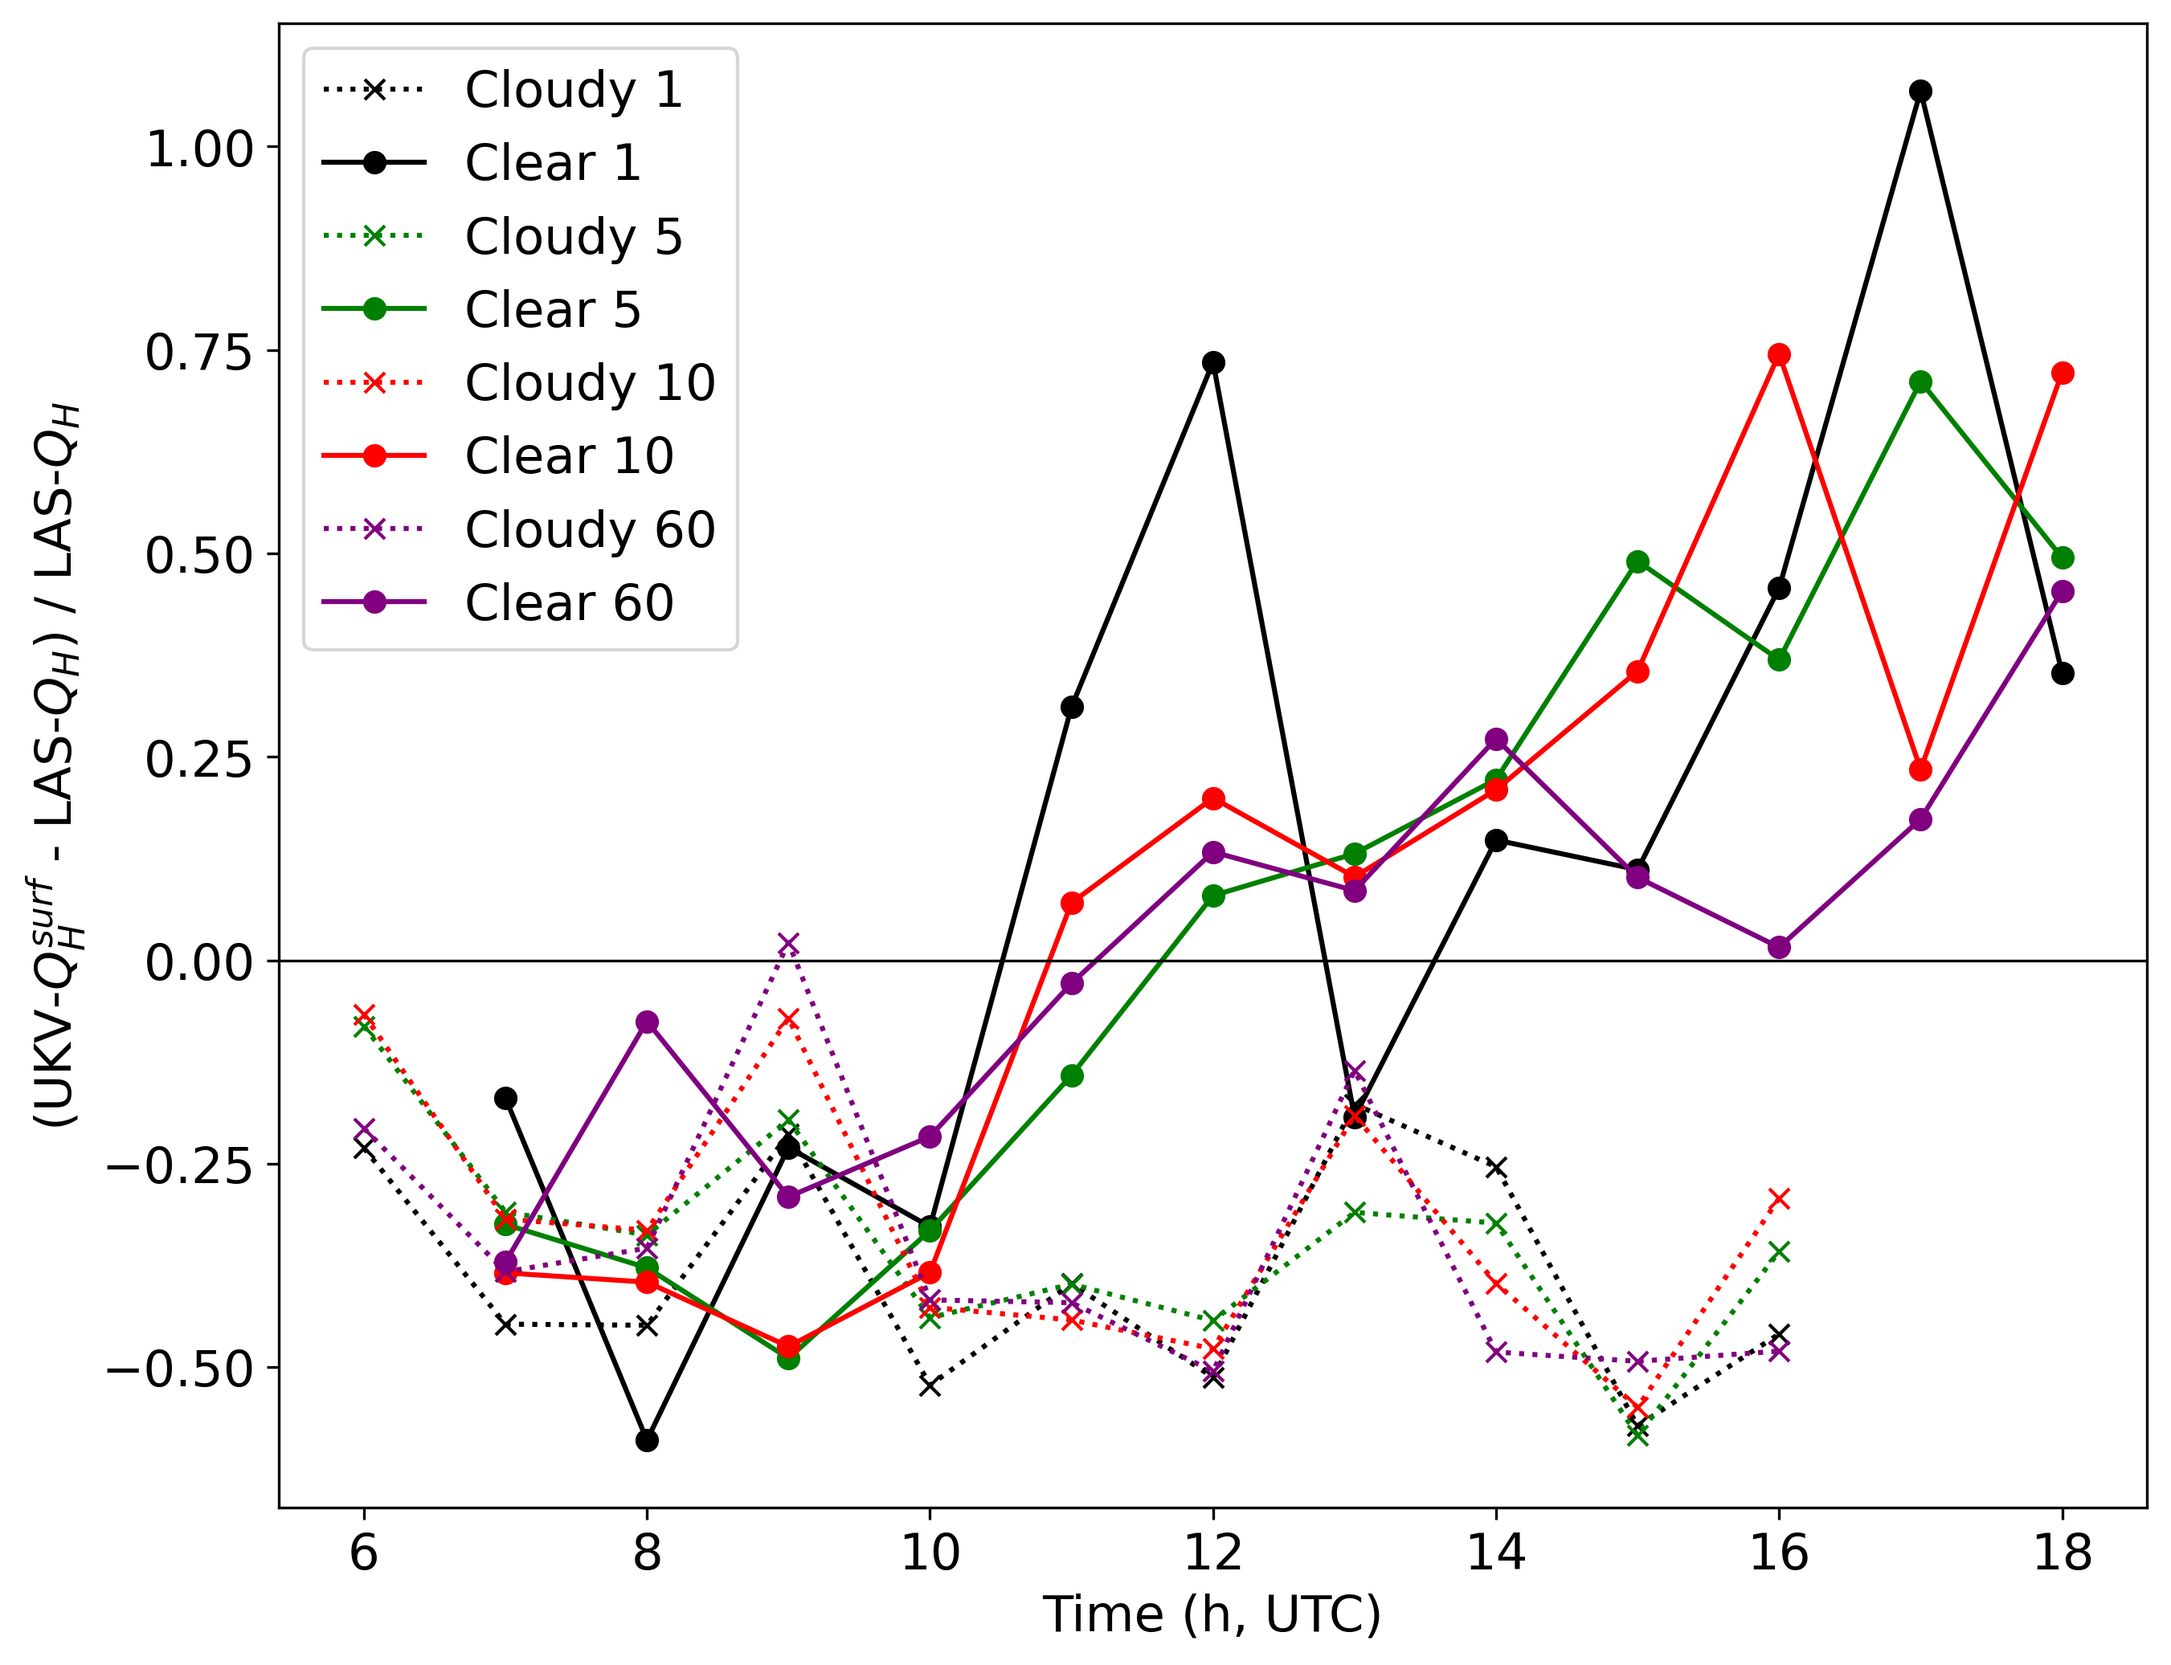
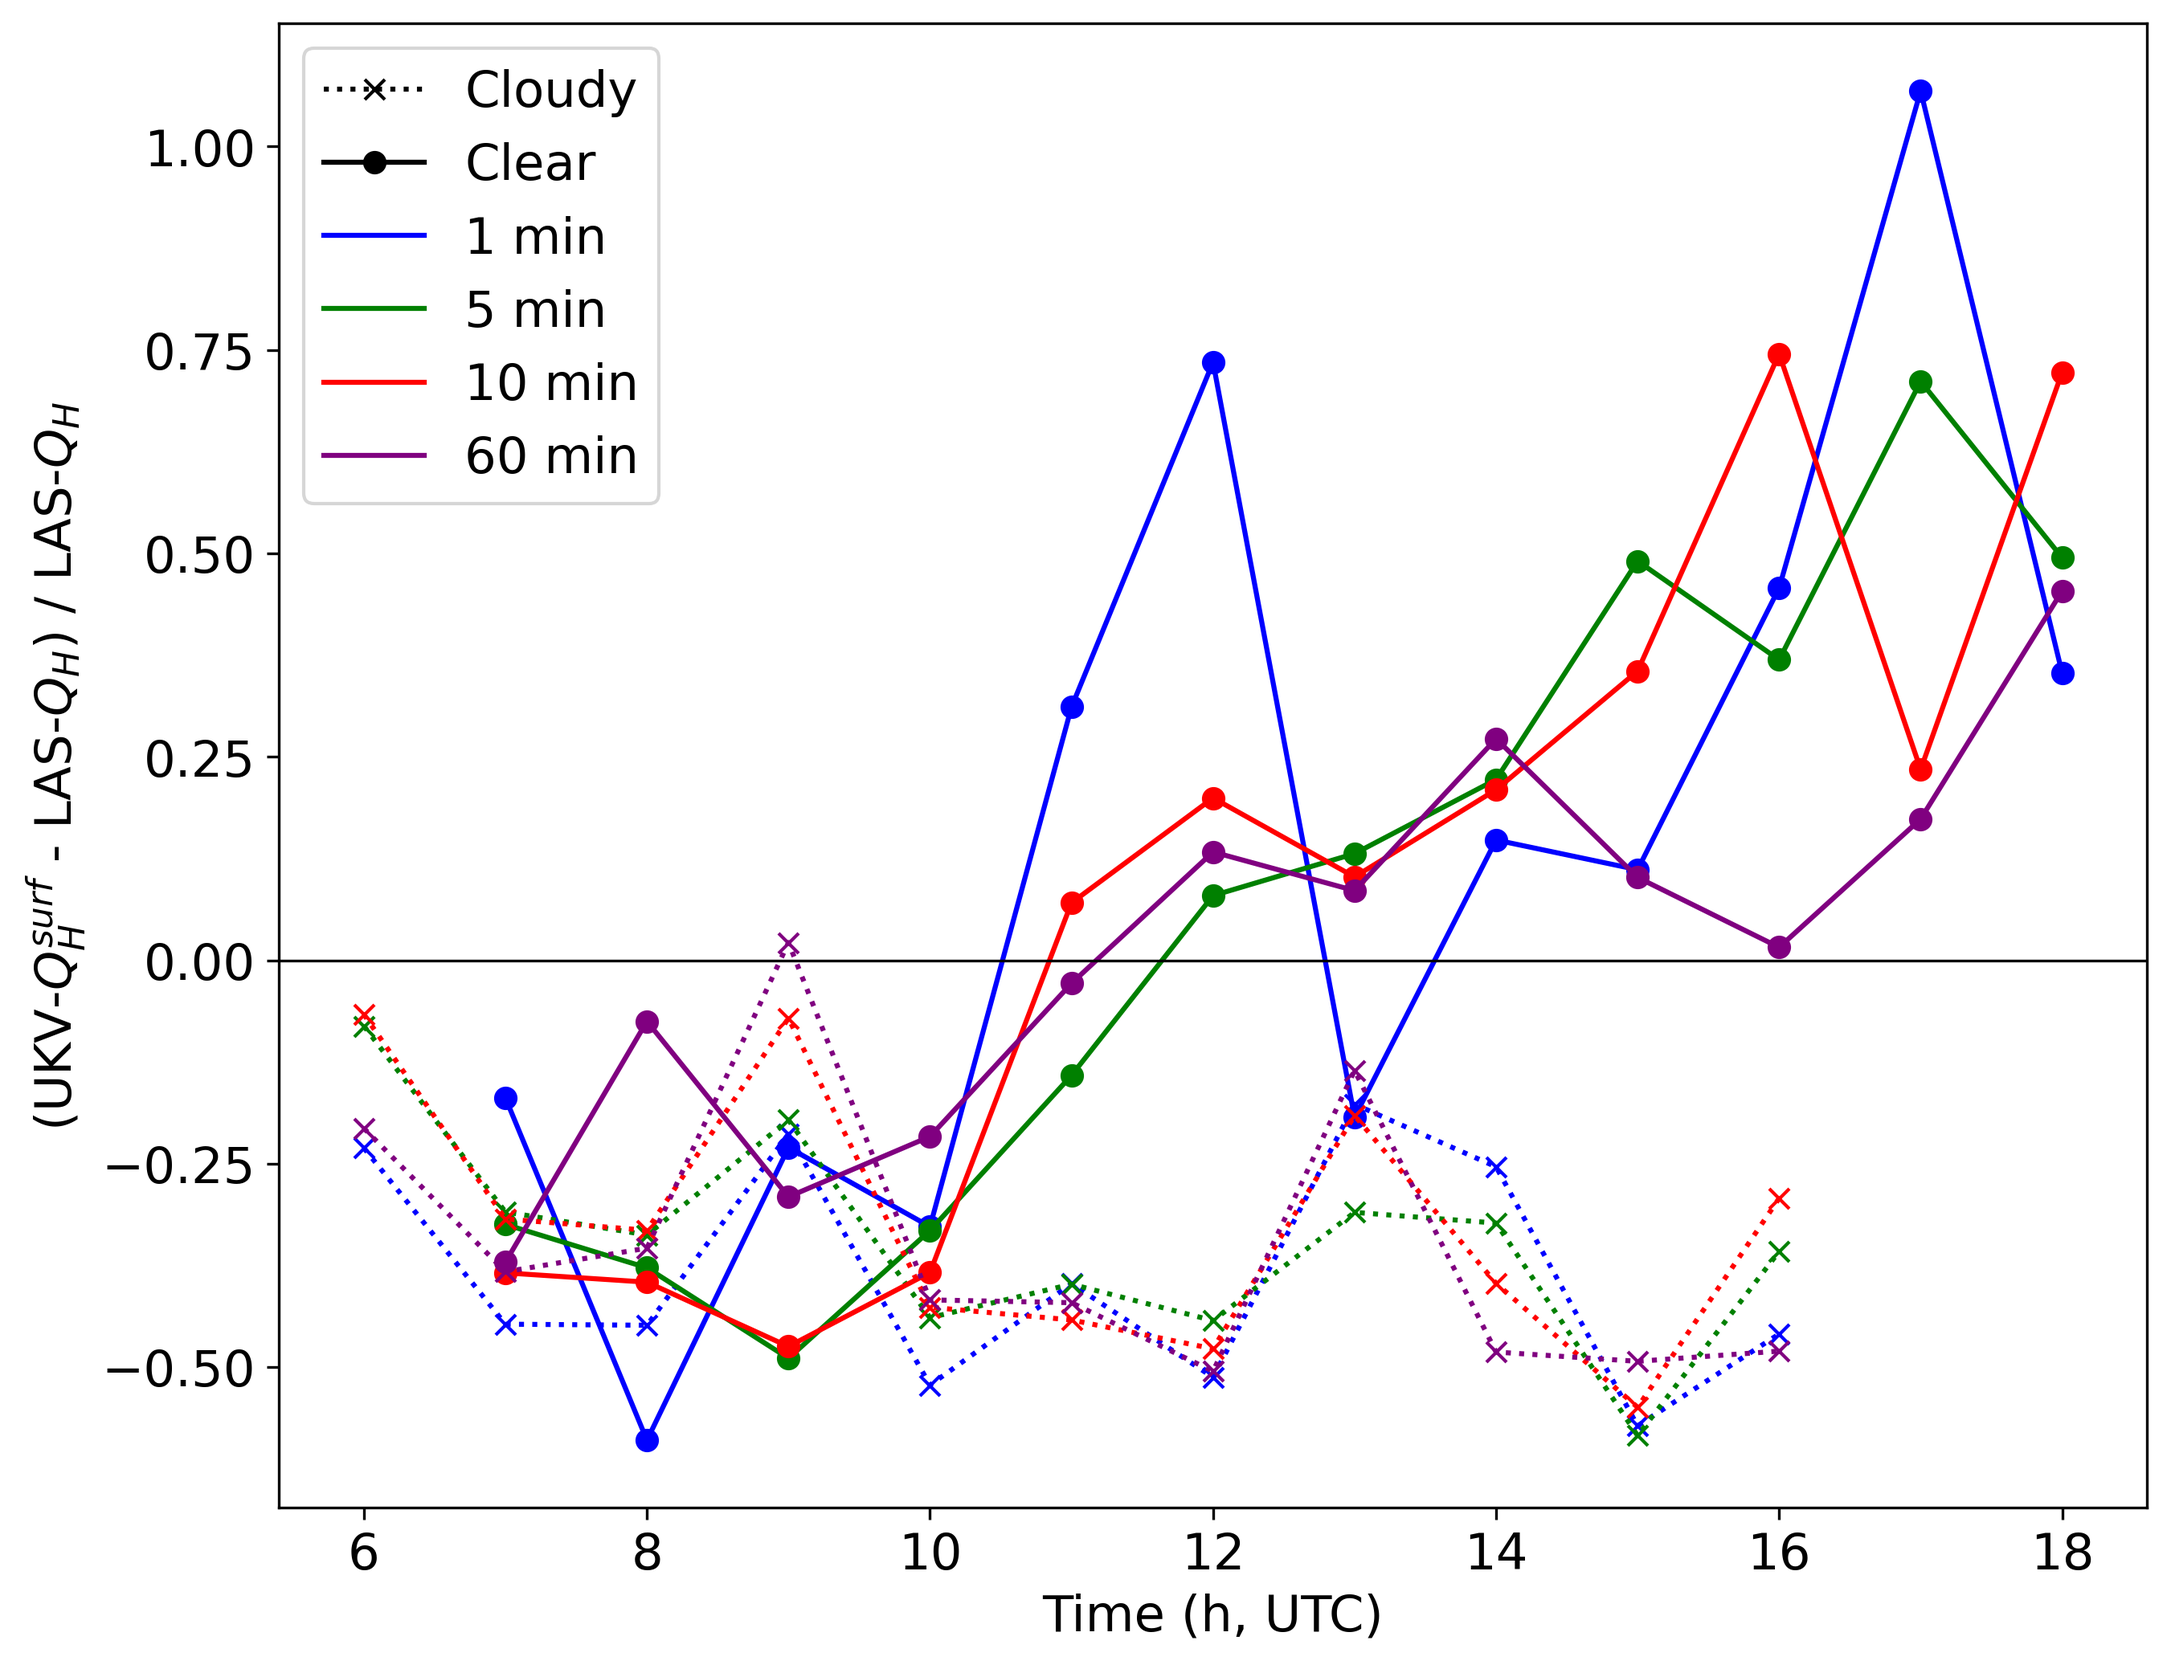
manually create legend

diff --git a/scint_plots/model_performance/model_performance_funs.py b/scint_plots/model_performance/model_performance_funs.py
@@ -2,6 +2,7 @@ import matplotlib.pyplot as plt
 import numpy as np
 import pandas as pd
 import matplotlib as mpl
+from matplotlib.lines import Line2D
 
 mpl.rcParams.update({'font.size': 15})
 
@@ -47,25 +48,20 @@ def plot_difference(DOY_dict):
     ax = plt.subplot(1, 1, 1)
 
     # 1 mins
-    plt.plot(DOY_df_dict[2016123].index.hour, DOY_df_dict[2016123].diff_1, marker='x', label='Cloudy 1', color='black',
-             linestyle='dotted')
-    plt.plot(DOY_df_dict[2016126].index.hour, DOY_df_dict[2016126].diff_1, marker='o', label='Clear 1', color='black')
+    plt.plot(DOY_df_dict[2016123].index.hour, DOY_df_dict[2016123].diff_1, marker='x', color='blue', linestyle='dotted')
+    plt.plot(DOY_df_dict[2016126].index.hour, DOY_df_dict[2016126].diff_1, marker='o', color='blue')
 
     # 5 mins
-    plt.plot(DOY_df_dict[2016123].index.hour, DOY_df_dict[2016123].diff_5, marker='x', label='Cloudy 5', color='green',
-             linestyle='dotted')
-    plt.plot(DOY_df_dict[2016126].index.hour, DOY_df_dict[2016126].diff_5, marker='o', label='Clear 5', color='green')
+    plt.plot(DOY_df_dict[2016123].index.hour, DOY_df_dict[2016123].diff_5, marker='x', color='green', linestyle='dotted')
+    plt.plot(DOY_df_dict[2016126].index.hour, DOY_df_dict[2016126].diff_5, marker='o', color='green')
 
     # 10 mins
-    plt.plot(DOY_df_dict[2016123].index.hour, DOY_df_dict[2016123].diff_10, marker='x', label='Cloudy 10', color='red',
-             linestyle='dotted')
-    plt.plot(DOY_df_dict[2016126].index.hour, DOY_df_dict[2016126].diff_10, marker='o', label='Clear 10', color='red')
+    plt.plot(DOY_df_dict[2016123].index.hour, DOY_df_dict[2016123].diff_10, marker='x', color='red', linestyle='dotted')
+    plt.plot(DOY_df_dict[2016126].index.hour, DOY_df_dict[2016126].diff_10, marker='o', color='red')
 
     # 60 mins
-    plt.plot(DOY_df_dict[2016123].index.hour, DOY_df_dict[2016123].diff_60, marker='x', label='Cloudy 60',
-             color='purple', linestyle='dotted')
-    plt.plot(DOY_df_dict[2016126].index.hour, DOY_df_dict[2016126].diff_60, marker='o', label='Clear 60',
-             color='purple')
+    plt.plot(DOY_df_dict[2016123].index.hour, DOY_df_dict[2016123].diff_60, marker='x', color='purple', linestyle='dotted')
+    plt.plot(DOY_df_dict[2016126].index.hour, DOY_df_dict[2016126].diff_60, marker='o', color='purple')
 
     # plt.gcf().autofmt_xdate()
     # ax.xaxis.set_major_formatter(DateFormatter('%H'))
@@ -75,7 +71,17 @@ def plot_difference(DOY_dict):
 
     plt.axhline(y=0, color='k', linestyle='-', linewidth=0.8)
 
-    plt.legend(fontsize=15)
+    # construct legend manually
+    handles, labels = plt.gca().get_legend_handles_labels()
+    cloudy_line = Line2D([0], [0], label='Cloudy', color='black', linestyle='dotted', marker='x')
+    clear_line = Line2D([0], [0], label='Clear', color='black', marker='o')
+    av1_line = Line2D([0], [0], label='1 min', color='blue')
+    av5_line = Line2D([0], [0], label='5 min', color='green')
+    av10_line = Line2D([0], [0], label='10 min', color='red')
+    av60_line = Line2D([0], [0], label='60 min', color='purple')
+    handles.extend([cloudy_line, clear_line, av1_line, av5_line, av10_line, av60_line])
+
+    plt.legend(handles=handles, fontsize=15)
 
     # save plot
     plt.savefig('./' + 'model_performance.png', bbox_inches='tight', dpi=300)
